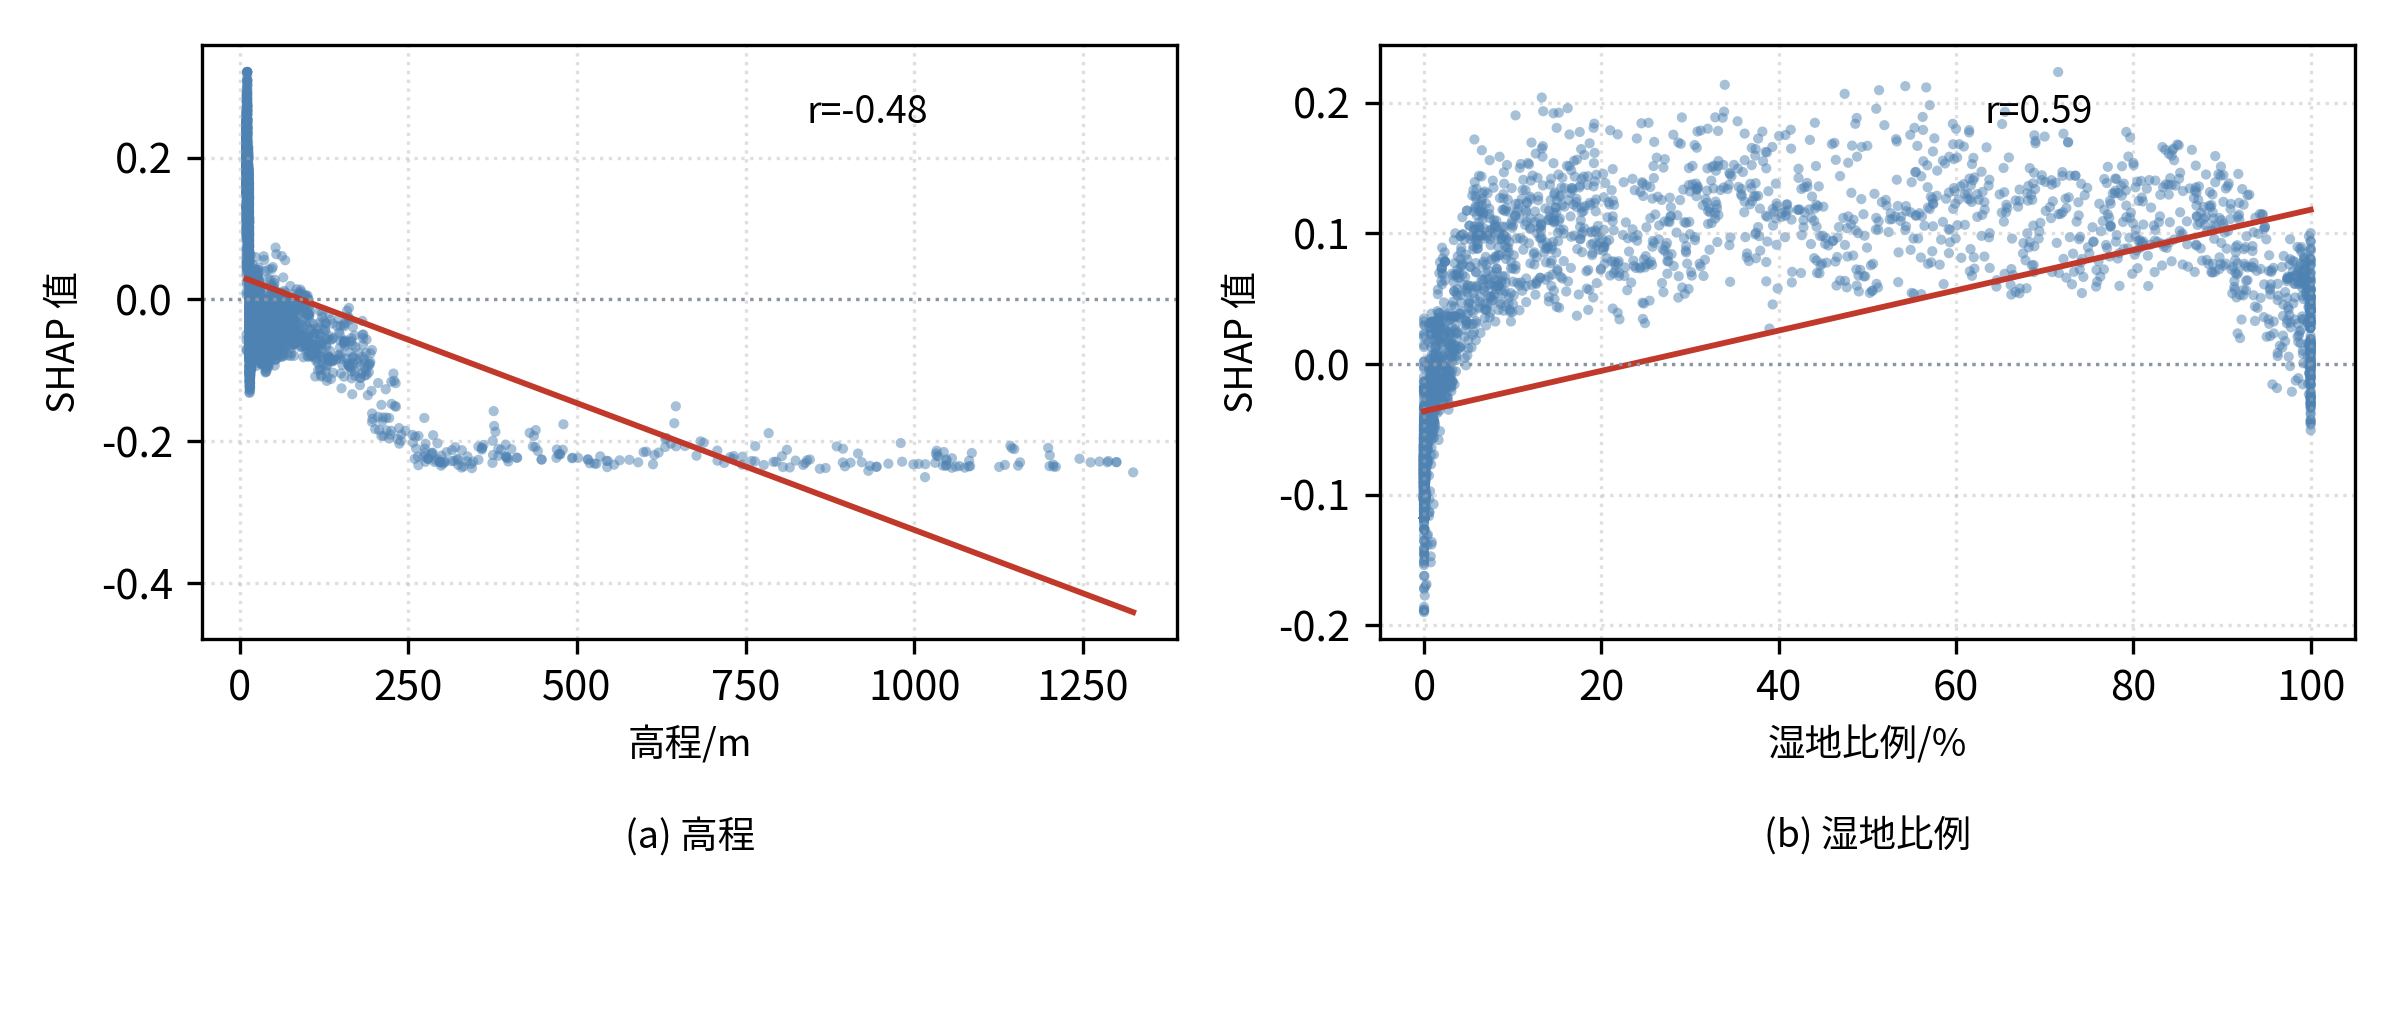
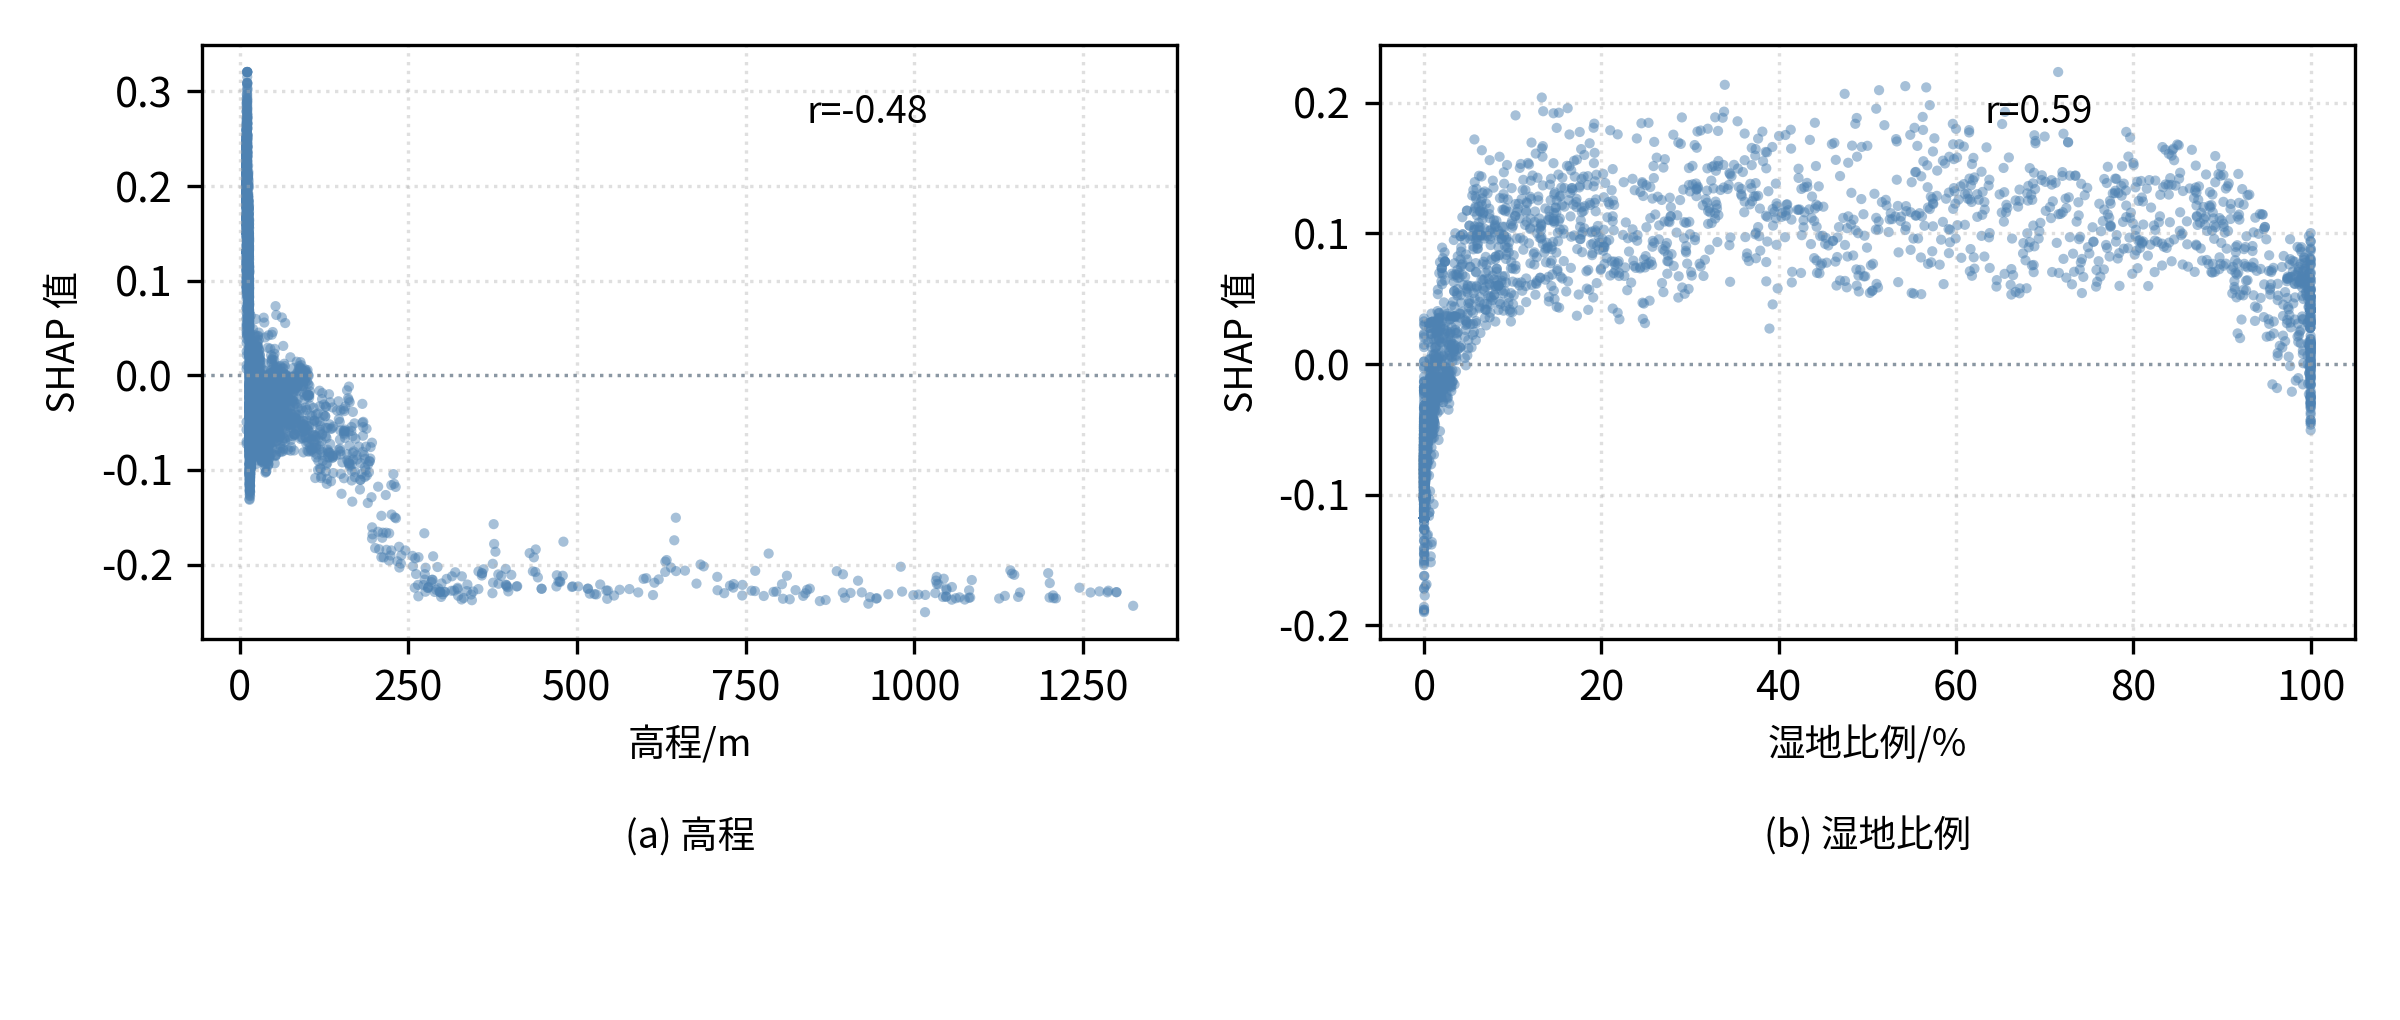
Crop figure 3 to 40 epochs; remove linear fit from figure 8 panels

diff --git a/code/shap_dep_v2.py b/code/shap_dep_v2.py
@@ -17,7 +17,7 @@ if os.path.exists(fp):
     plt.rcParams["font.family"] = font_manager.FontProperties(fname=fp).get_name()
 plt.rcParams["axes.unicode_minus"] = False
 
-F2 = os.path.expanduser(os.environ.get("F2_ROOT","~/F2"))
+F2 = os.path.expanduser("~/sy/F2")
 P4 = os.path.join(F2, "runs", "p4")
 rows = json.load(open(os.path.join(P4, "cells.json")))
 FEATS = ["f_water", "f_built", "f_crop", "f_tree", "f_grass", "f_wetland",
@@ -28,22 +28,20 @@ rf = RandomForestRegressor(n_estimators=500, min_samples_leaf=3, random_state=42
 sv = shap.TreeExplainer(rf).shap_values(X)
 
 fig, axes = plt.subplots(1, 2, figsize=(8.0, 3.4))
-PANELS = ((axes[0], "elev", "(a) 高程/m", 1.0), (axes[1], "f_wetland", "(b) 湿地比例/%", 100.0))
-for ax, feat, label, scale in PANELS:
+PANELS = ((axes[0], "elev", "高程/m", 1.0, "(a) 高程"), (axes[1], "f_wetland", "湿地比例/%", 100.0, "(b) 湿地比例"))
+for ax, feat, label, scale, sub_name in PANELS:
     i = FEATS.index(feat)
     xv = X[:, i] * scale
     ax.scatter(xv, sv[:, i], s=6, alpha=0.5, color="#4E82B2", edgecolors="none")
-    z = np.polyfit(xv, sv[:, i], 1)
-    xs = np.linspace(xv.min(), xv.max(), 50)
-    ax.plot(xs, np.polyval(z, xs), color="#C0392B", lw=1.4)
     ax.axhline(0, color="#8A97A3", lw=0.8, ls=":")
     ax.set_xlabel(label, fontsize=9)
+    ax.text(0.5, -0.30, sub_name, transform=ax.transAxes, ha="center", va="top", fontsize=9)
     ax.set_ylabel("SHAP 值", fontsize=9)
     ax.grid(ls=":", alpha=0.4)
     corr = np.corrcoef(X[:, i], sv[:, i])[0, 1]
     ax.text(0.62, 0.92, "r=%.2f" % corr, transform=ax.transAxes,
             fontsize=9, va="top")
-fig.tight_layout()
+fig.tight_layout(rect=(0, 0.06, 1, 1))
 fig.savefig(os.path.join(F2, "out", "figs", "fig_shap_dep.png"), dpi=300)
 print("saved fig_shap_dep")
 for feat in ("elev", "f_wetland"):

diff --git a/code/p8_curves_v2.py b/code/p8_curves_v2.py
@@ -20,7 +20,7 @@ RUNS = os.path.expanduser("~/sy/F2/runs")
 FIG = os.path.expanduser("~/sy/F2/out/figs")
 COL = {"base": "#346696", "std": "#8FB3D9", "b4": "#C9D9E8"}
 NAME = {"base": "本文方法", "std": "标准卷积", "b4": "仅4波段"}
-EPOCHS = 60
+EPOCHS = 40
 
 fig, ax = plt.subplots(figsize=(6.2, 3.4))
 for tag in ("base", "std", "b4"):
